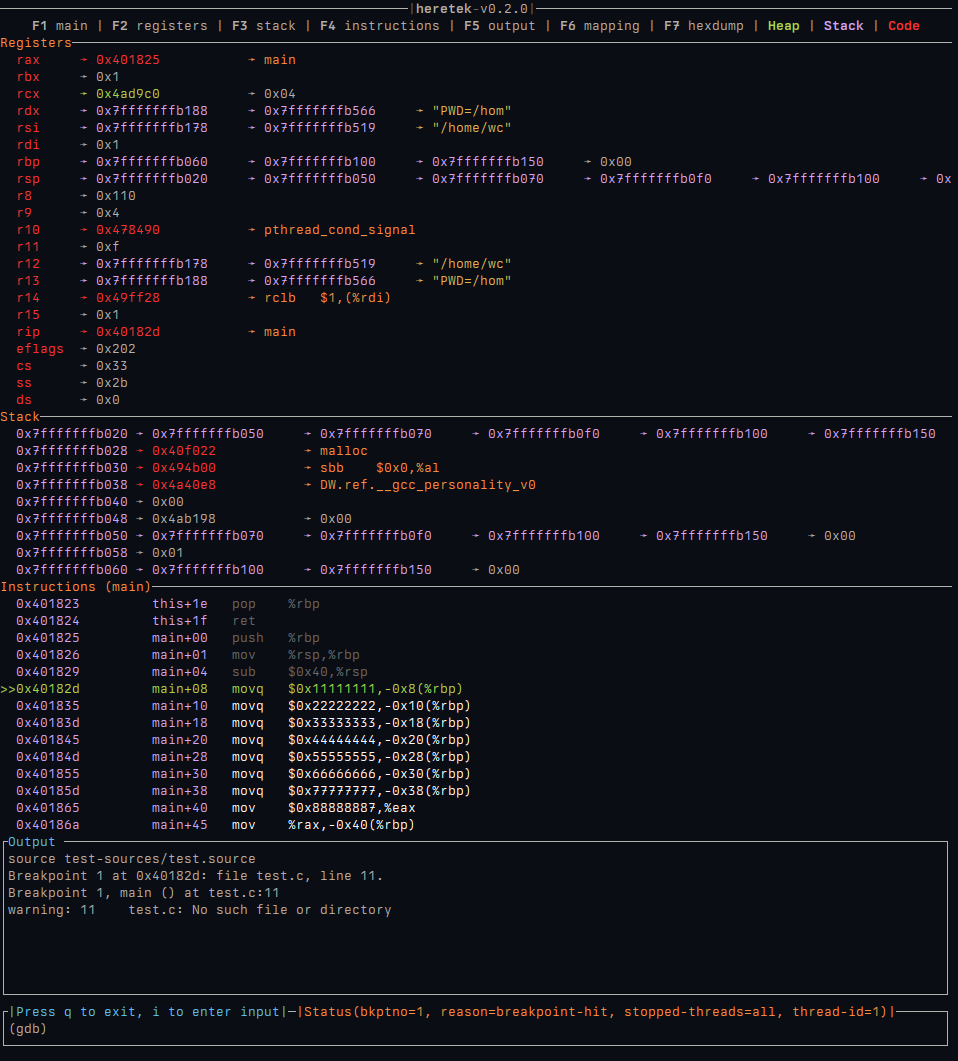
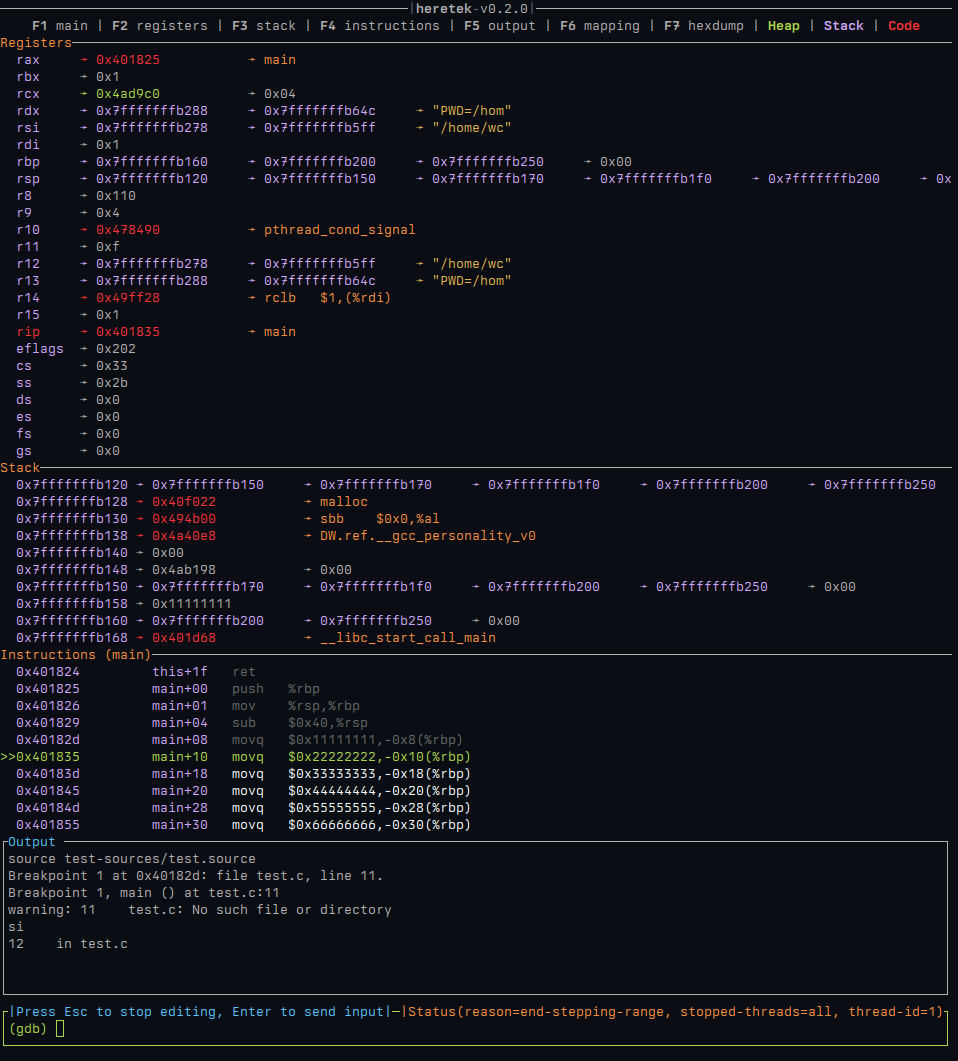
Adjusted size of UI elements in Main View
* Change Register to Min of 10
* Change Stack to always try to have 10+1
* Change asm to Length of 11

Closes #99

diff --git a/src/main.rs b/src/main.rs
@@ -895,7 +895,7 @@ mod tests {
         if let Some(cmd) = args.cmd {
             process_line(&mut app, &cmd);
         }
-        let mut terminal = Terminal::new(TestBackend::new(160, 40)).unwrap();
+        let mut terminal = Terminal::new(TestBackend::new(160, 50)).unwrap();
         let start_time = Instant::now();
         let duration = Duration::from_secs(10);
 
@@ -1031,33 +1031,55 @@ mod tests {
         if let Ok(stack) = app.stack.lock() {
             let mut entries: Vec<_> = stack.clone().into_iter().collect();
             entries.sort_by(|a, b| a.0.cmp(&b.0));
-            let from = format!("0x{:02x}", entries[0].0);
+            let first_stack = entries[0].0;
+            let from = format!("0x{:02x}", first_stack);
             let output = output.replace(&from, "<stack_0>");
 
-            let from = format!("0x{:02x}", entries[1].0);
+            let from = format!("0x{:02x}", first_stack + 8);
             let output = output.replace(&from, "<stack_1>");
 
-            let from = format!("0x{:02x}", entries[2].0);
+            let from = format!("0x{:02x}", first_stack + 16);
             let output = output.replace(&from, "<stack_2>");
 
-            let from = format!("0x{:02x}", entries[3].0);
+            let from = format!("0x{:02x}", first_stack + 24);
             let output = output.replace(&from, "<stack_3>");
 
-            let from = format!("0x{:02x}", entries[4].0);
+            let from = format!("0x{:02x}", first_stack + 32);
             let output = output.replace(&from, "<stack_4>");
 
-            let from = format!("0x{:02x}", entries[5].0);
+            let from = format!("0x{:02x}", first_stack + 40);
             let output = output.replace(&from, "<stack_5>");
 
-            let from = format!("0x{:02x}", entries[6].0);
+            let from = format!("0x{:02x}", first_stack + 48);
             let output = output.replace(&from, "<stack_6>");
             let from = format!("0x{:02x}", entries[6].1.map[0]);
             let output = output.replace(&from, "<stack_6_0>   ");
             let from = format!("0x{:02x}", entries[6].1.map[1]);
             let output = output.replace(&from, "<stack_6_1>   ");
 
-            let from = format!("0x{:02x}", entries[7].0);
+            let from = format!("0x{:02x}", first_stack + 56);
             let output = output.replace(&from, "<stack_7>");
+
+            let from = format!("0x{:02x}", first_stack + 64);
+            let output = output.replace(&from, "<stack_8>");
+
+            let from = format!("0x{:02x}", first_stack + 72);
+            let output = output.replace(&from, "<stack_9>");
+
+            let from = format!("0x{:02x}", first_stack + 80);
+            let output = output.replace(&from, "<stack_10>");
+
+            let from = format!("0x{:02x}", first_stack + 88);
+            let output = output.replace(&from, "<stack_11>");
+
+            let from = format!("0x{:02x}", first_stack + 96);
+            let output = output.replace(&from, "<stack_12>");
+
+            let from = format!("0x{:02x}", first_stack + 104);
+            let output = output.replace(&from, "<stack_13>");
+
+            let from = format!("0x{:02x}", first_stack + 112);
+            let output = output.replace(&from, "<stack_14>");
 
             if let Ok(registers) = app.registers.lock() {
                 let from = format!(

diff --git a/src/gdb.rs b/src/gdb.rs
@@ -16,6 +16,7 @@ use crate::mi::{
     MEMORY_MAP_START_STR_NEW, MEMORY_MAP_START_STR_OLD,
 };
 use crate::register::RegisterStorage;
+use crate::ui::SAVED_STACK;
 use crate::Written;
 
 pub fn gdb_interact(
@@ -587,6 +588,9 @@ fn read_memory(memory: &String) -> (HashMap<String, String>, String) {
 }
 
 /// MIResponse::ExecResult, key: "register-values"
+///
+/// This is the first time we see the register-values, so this is the actual
+/// value for them (not any deref values)
 fn recv_exec_results_register_values(
     register_values: &String,
     thirty_two_bit: &Arc<AtomicBool>,
@@ -697,9 +701,9 @@ fn recv_exec_results_register_values(
 
     // assuming we have a valid $sp, get the bytes
     if thirty {
-        dump_sp_bytes(next_write, written, 4, 14);
+        dump_sp_bytes(next_write, written, 4, u64::from(SAVED_STACK));
     } else {
-        dump_sp_bytes(next_write, written, 8, 14);
+        dump_sp_bytes(next_write, written, 8, u64::from(SAVED_STACK));
     }
 
     // update current asm at pc

diff --git a/src/ui/mod.rs b/src/ui/mod.rs
@@ -33,6 +33,9 @@ const TEXT_COLOR: Color = RED;
 
 const SAVED_OUTPUT: usize = 10;
 
+/// Amount of stack addresses we save/display
+pub const SAVED_STACK: u16 = 14;
+
 pub const SCROLL_CONTROL_TEXT: &str = "(up(k), down(j), 50 up(K), 50 down(J), top(g), bottom(G))";
 
 pub fn ui(f: &mut Frame, app: &mut App) {
@@ -63,9 +66,10 @@ pub fn ui(f: &mut Frame, app: &mut App) {
 
     match app.mode {
         Mode::All => {
-            let register_size = Min(30);
-            let stack_size = Min(10);
-            let asm_size = Min(15);
+            let register_size = Min(10);
+            let stack_size = Length(10 + 1);
+            // 5 previous, 5 now + after
+            let asm_size = Length(11);
             let vertical = Layout::vertical([register_size, stack_size, asm_size]);
             let [register, stack, asm] = vertical.areas(top);
 

diff --git a/CHANGELOG.md b/CHANGELOG.md
@@ -5,6 +5,7 @@ The format is based on [Keep a Changelog](https://keepachangelog.com/en/1.0.0/),
 and this project adheres to [Semantic Versioning](https://semver.org/spec/v2.0.0.html).
 
 ## [Unreleased]
+- Adjusted size of UI elements in Main View [#102](https://github.com/wcampbell0x2a/heretek/pull/102)
 - Add `--gdb-path` to override gdb executated [#101](https://github.com/wcampbell0x2a/heretek/pull/101)
 
 ## [0.2.0] - 2025-01-02
